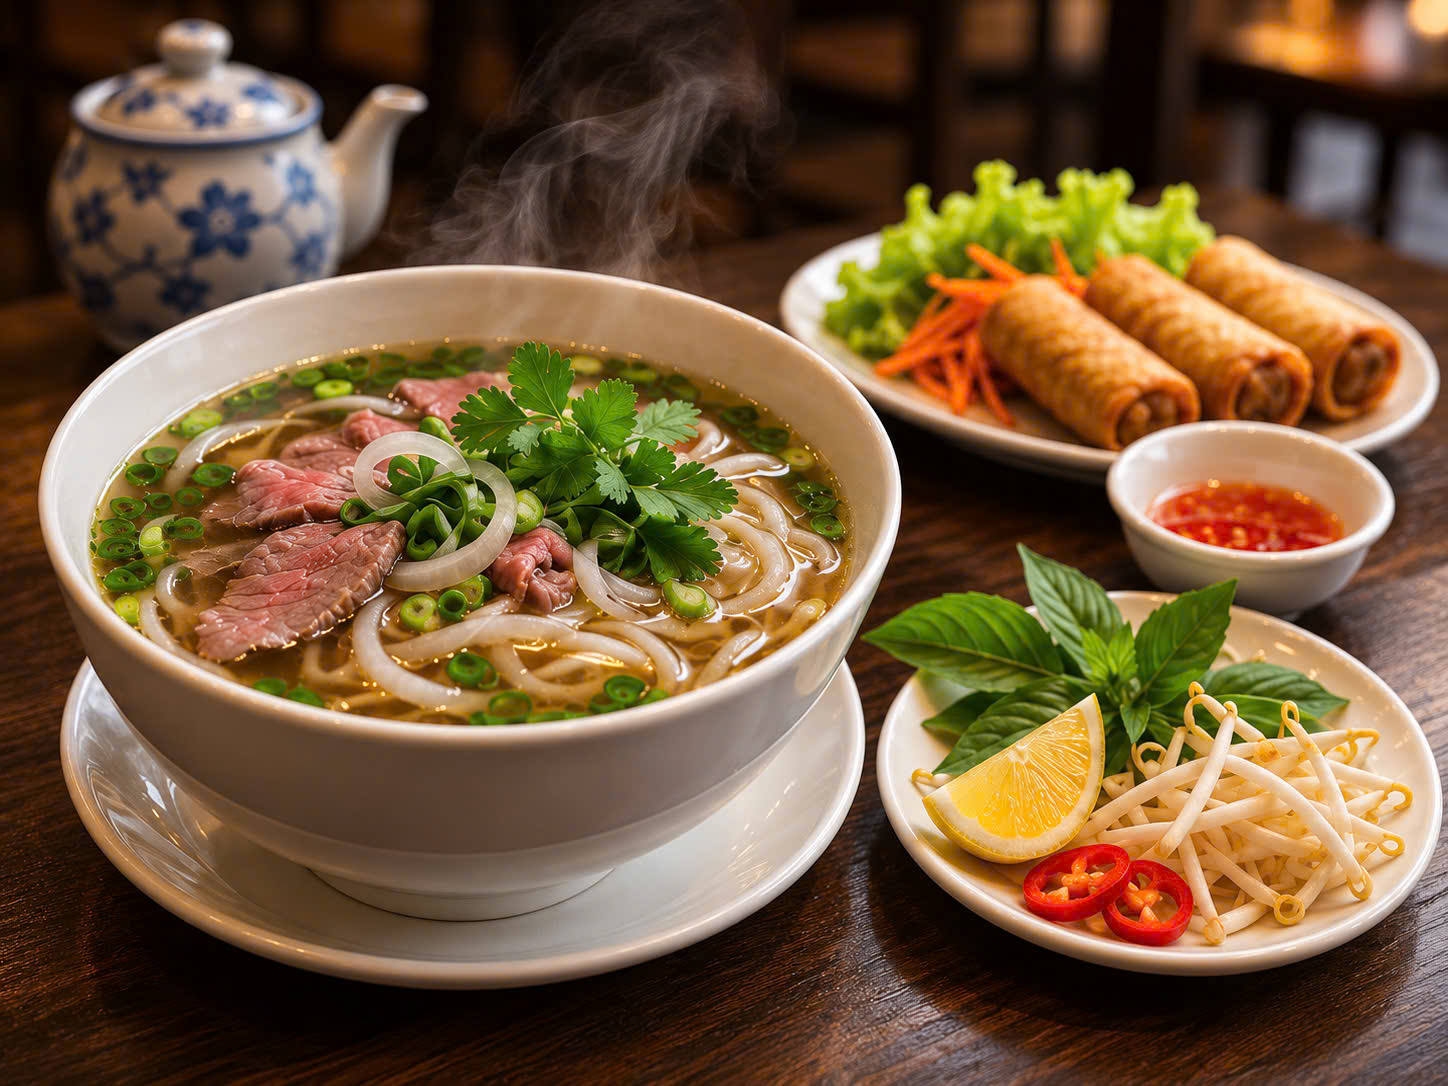
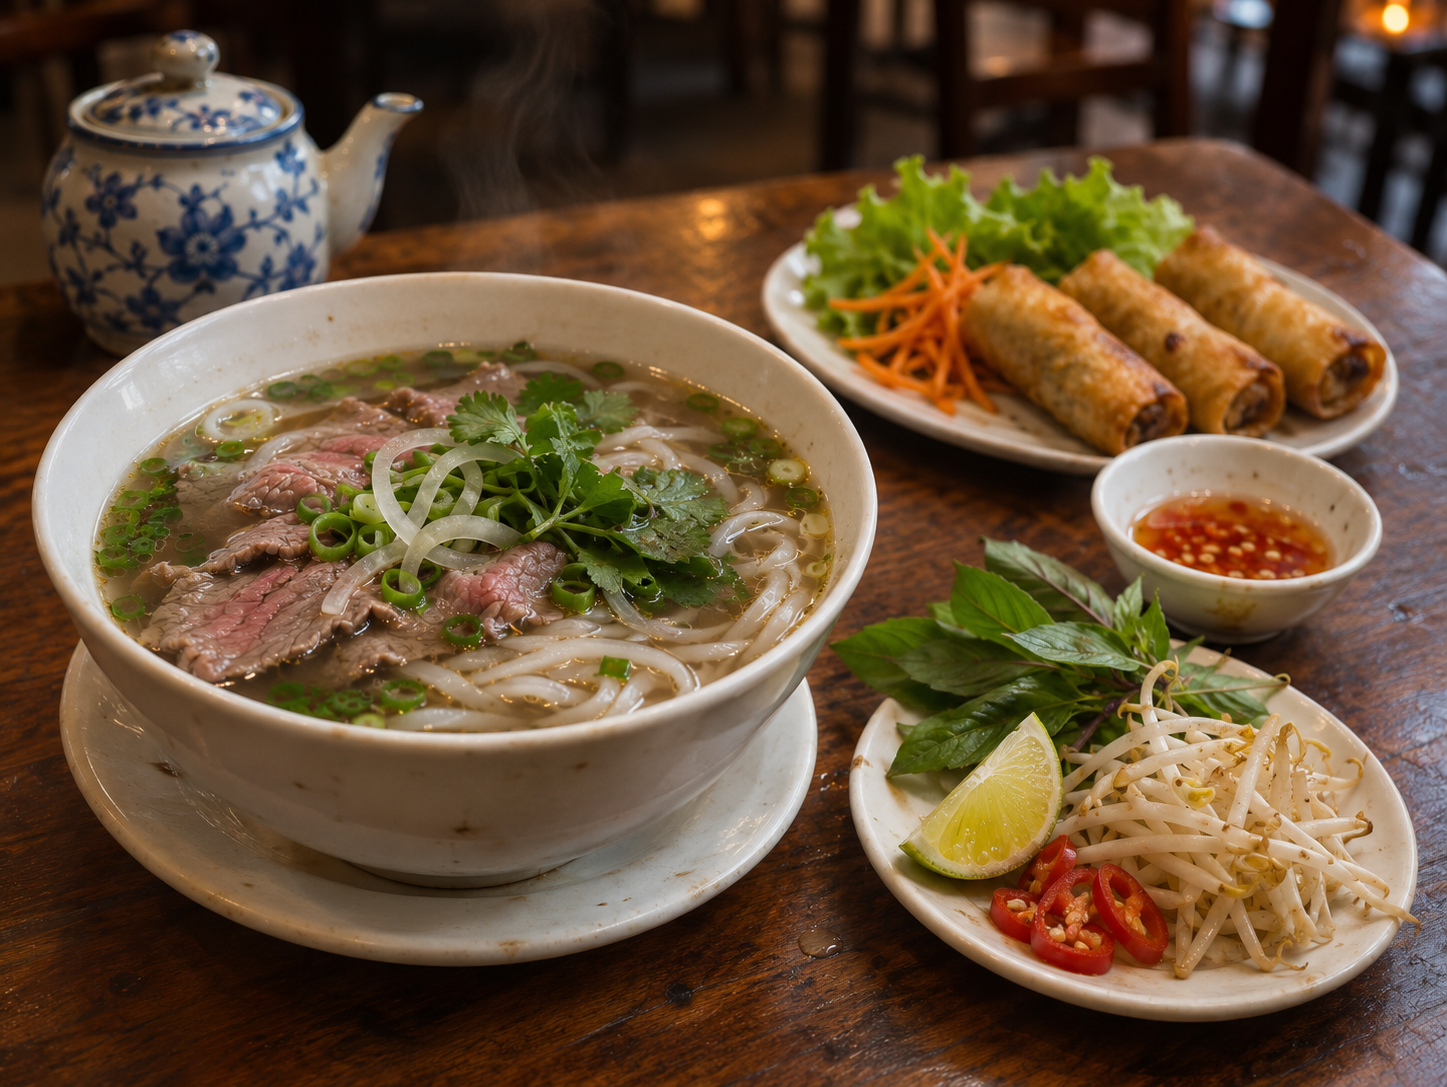
Add files via upload

diff --git a/styles.css b/styles.css
@@ -75,3 +75,21 @@ h1,h2{font-family:var(--serif);font-weight:500;letter-spacing:-.045em;line-heigh
 @media(max-width:900px){.brand-logo-image{width:203px;}}
 @media(max-width:640px){.brand-logo-image{width:174px;}.footer-logo-image{width:min(285px,100%);}}
 @media(max-width:370px){.brand-logo-image{width:158px;}}
+
+/* Client update — remove the beige photo frame from the homepage hero image a.webp.
+   Keep the original photo intact, display at natural aspect ratio, no crop. */
+body[data-page="home"] .hero-photo {
+  border: 0;
+  background: transparent;
+  height: auto;
+  min-height: 0;
+  max-height: none;
+  aspect-ratio: 1920 / 1164;
+  padding: 0;
+}
+body[data-page="home"] .hero-photo img {
+  display: block;
+  width: 100%;
+  height: 100%;
+  object-fit: cover;
+}
